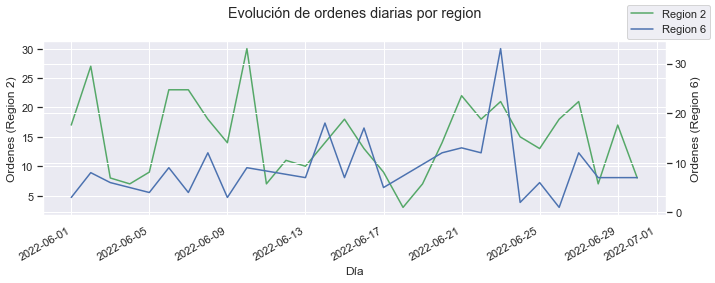
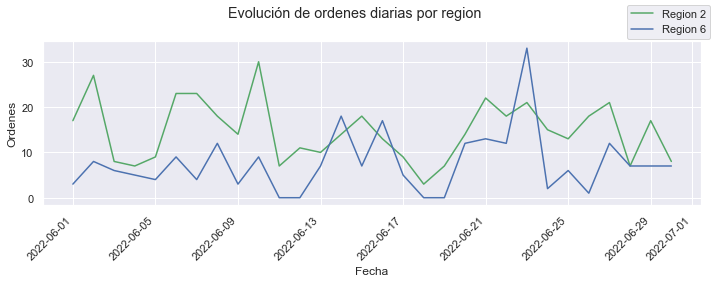
added kpis

diff --git a/main.py b/main.py
@@ -12,7 +12,7 @@ from src.utils import Plotly_Plots
 warnings.filterwarnings('ignore')
 
 option_settings = {
-    'display.max_rows': False,
+    'display.max_rows': None,
     'display.max_columns': None,
     'display.float_format': '{:,.4f}'.format
 }
@@ -144,12 +144,13 @@ base_ts_2 = pd.pivot_table(
     data=data_orders[data_orders['region_id']=='2'],
     index='created_date',
     values=[
-        'order_id', 'purchase_completed', 'quantity', 
+        'order_id', 'buyer_id', 'purchase_completed', 'quantity', 
         'total_discounted_price', 'total_full_price', 'total_discount', 
         'avg_full_price_per_product', 'avg_disc_per_product'
     ],
     aggfunc={
         'order_id': pd.Series.nunique,
+        'buyer_id': pd.Series.nunique,
         'purchase_completed': np.sum,
         'quantity': np.mean,
         'total_full_price': np.sum,
@@ -159,18 +160,22 @@ base_ts_2 = pd.pivot_table(
         'avg_disc_per_product': np.mean
     }
 ).reset_index()
+base_ts_2.set_index('created_date', inplace=True)
+base_ts_2 = base_ts_2.resample('D').sum()
+base_ts_2.reset_index(inplace=True)
 base_ts_2['day_name'] = base_ts_2['created_date'].dt.day_name()
 
 base_ts_6 = pd.pivot_table(
     data=data_orders[data_orders['region_id']=='6'],
     index='created_date',
     values=[
-        'order_id', 'purchase_completed', 'quantity', 
+        'order_id', 'buyer_id', 'purchase_completed', 'quantity', 
         'total_discounted_price', 'total_full_price', 'total_discount', 
         'avg_full_price_per_product', 'avg_disc_per_product'
     ],
     aggfunc={
         'order_id': pd.Series.nunique,
+        'buyer_id': pd.Series.nunique,
         'purchase_completed': np.sum,
         'quantity': np.mean,
         'total_full_price': np.sum,
@@ -180,11 +185,46 @@ base_ts_6 = pd.pivot_table(
         'avg_disc_per_product': np.mean
     }
 ).reset_index()
+base_ts_6.set_index('created_date', inplace=True)
+base_ts_6 = base_ts_6.resample('D').sum()
+base_ts_6.reset_index(inplace=True)
 base_ts_6['day_name'] = base_ts_6['created_date'].dt.day_name()
 
 # %% 5. Plots
 mask_region_2 = data_orders['region_id'] == '2'
 mask_region_6 = data_orders['region_id'] == '6'
+
+# Lineplot: Trx evolution
+fig, ax1 = plt.subplots(1, 1, figsize=(10, 4))
+ax2 = ax1.twinx()
+ax1.plot(base_ts_2[['created_date', 'order_id']].set_index('created_date'), color='g')
+ax2.plot(base_ts_6[['created_date', 'order_id']].set_index('created_date'), color='b')
+ax1.set_xlabel('Día')
+ax1.set_ylabel('Ordenes (Region 2)')
+ax2.set_ylabel('Ordenes (Region 6)')
+fig.legend(['Region 2', 'Region 6'])
+fig.suptitle('Evolución de ordenes diarias por region')
+fig.autofmt_xdate(rotation=45)
+plt.show()
+
+# Barplot: Avg trx per day
+fig, axes = plt.subplots(1, 2, figsize=(12, 4))
+sns.barplot(
+    x='day_name', 
+    y='order_id',
+    data=base_ts_2.groupby(['day_name'])['order_id'].mean().sort_values(ascending=False).reset_index(),
+    ax=axes[0]
+)
+sns.barplot(
+    x='day_name', 
+    y='order_id',
+    data=base_ts_6.groupby(['day_name'])['order_id'].mean().sort_values(ascending=False).reset_index(),
+    ax=axes[1]
+)
+axes[0].set(xlabel='Dia de la semana', ylabel='Ordenes promedio', title='Region 2')
+axes[1].set(xlabel='Dia de la semana', ylabel='Ordenes promedio', title='Region 6')
+fig.suptitle('Promedio de ordenes por dia de la semana', fontsize=15)
+plt.show()
 
 # Countplot: Qty of trx
 fig, axes = plt.subplots(2, 1, figsize=(10, 10))
@@ -224,46 +264,6 @@ axes[0].set(xlabel='Revenue', ylabel='Tipo de pago', title='Region 2')
 axes[1].set(xlabel='Revenue', ylabel='Tipo de pago', title='Region 6')
 plt.show()
 
-# Lineplot: Trx evolution
-fig, ax1 = plt.subplots(1, 1, figsize=(10, 4))
-ax2 = ax1.twinx()
-ax1.plot(base_ts_2[['created_date', 'order_id']].set_index('created_date'), color='g')
-ax2.plot(base_ts_6[['created_date', 'order_id']].set_index('created_date'), color='b')
-ax1.set_xlabel('Día')
-ax1.set_ylabel('Ordenes (Region 2)')
-ax2.set_ylabel('Ordenes (Region 6)')
-fig.legend(['Region 2', 'Region 6'])
-fig.suptitle('Evolución de ordenes diarias por region')
-fig.autofmt_xdate(rotation=45)
-plt.show()
-# fig = px.line(
-#     data_frame=base_ts, 
-#     x='created_date', 
-#     y='order_id',
-#     width=900,
-#     height=350,
-#     title='Evolución de ordenes diarias'
-# )
-# fig.update_layout(
-#     title='Evolución de ordenes diarias',
-#     xaxis_title='Días',
-#     yaxis_title='Número de ordenes',
-#     title_x=0.5
-# )
-# fig.show()
-
-# Barplot: Avg trx per day
-plt.figure(figsize=(6, 4))
-sns.barplot(
-    x='day_name', 
-    y='order_id',
-    data=base_ts.groupby(['day_name'])['order_id'].mean().sort_values(ascending=False).reset_index(),
-)
-plt.xlabel('Dia de la semana')
-plt.ylabel('Promedio de ordenes')
-plt.title('Promedio de ordenes por dia de la semana', fontsize=15)
-plt.show()
-
 # Frecuencia
 data_orders.order_id.nunique() / data_orders.buyer_id.nunique()
 
@@ -276,11 +276,20 @@ data_orders.total_discounted_price.sum() / data_orders.buyer_id.nunique()
 # Trx
 data_orders.order_id.nunique()
 
+# Ticket full price
+base_ts_2.iloc[:, 1:].sum()[7] / base_ts_2.iloc[:, 1:].sum()[2]
+base_ts_6.iloc[:, 1:].sum()[7] / base_ts_6.iloc[:, 1:].sum()[2]
+
+# Ticket discounted price
+base_ts_2.iloc[:, 1:].sum()[6] / base_ts_2.iloc[:, 1:].sum()[2]
+base_ts_6.iloc[:, 1:].sum()[6] / base_ts_6.iloc[:, 1:].sum()[2]
+
+# Efecto descuento
+base_ts_2.iloc[:, 1:].sum()[5] / base_ts_2.iloc[:, 1:].sum()[2]
+base_ts_6.iloc[:, 1:].sum()[5] / base_ts_6.iloc[:, 1:].sum()[2]
+
+# Promedio de unidades por orden
+base_ts_2.iloc[:, 1:].mean()[4]
+base_ts_6.iloc[:, 1:].mean()[4]
+
 # %%
-
-
-pd.pivot_table(
-    data=data_orders,
-    index='created_date',
-    values=['order_id']
-)
